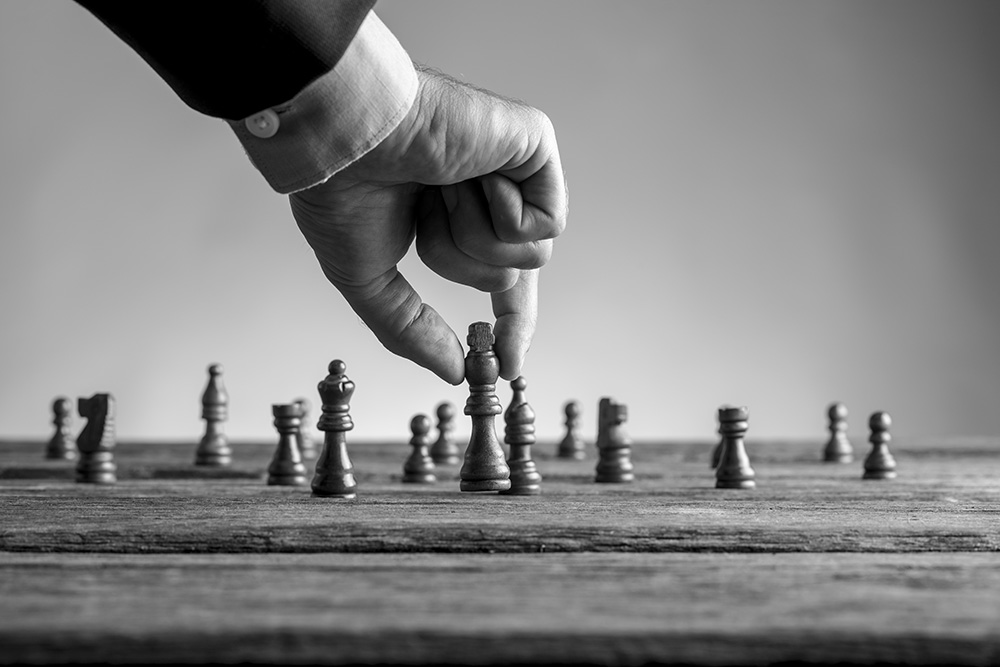
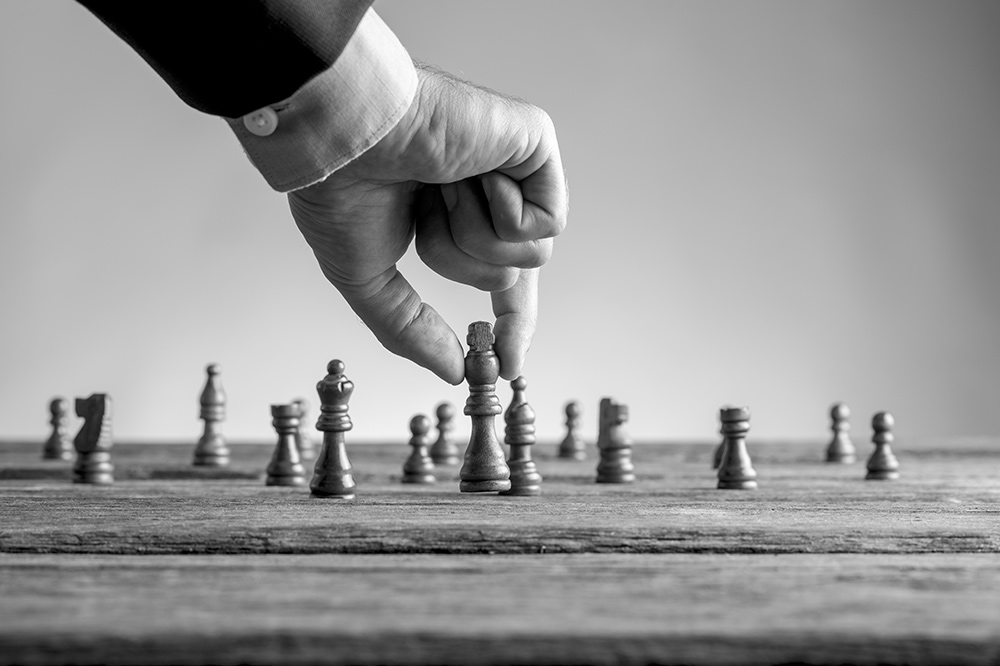
Resize images to same aspect ratio. Adjust padding to fix weird spacing on small desktop.

diff --git a/index.html b/index.html
@@ -76,7 +76,7 @@
                     </div>
                 </div>
                 <!-- Project Two Row-->
-                <div class="row gx-0 mb-5 mb-lg-0 justify-content-center">
+                <div class="row gx-0 justify-content-center">
                     <div class="col-lg-6"><img class="img-fluid" src="assets/img/take-action.jpg" alt="..." /></div>
                     <div class="col-lg-6">
                         <div class="bg-black text-center h-100 project">

diff --git a/css/styles.css b/css/styles.css
@@ -185,7 +185,7 @@ a:hover {
 }
 @media (min-width: 992px) {
   .projects-section .project-text {
-    padding: 5rem;
+    padding: 2rem 5rem;
   }
 }
 
